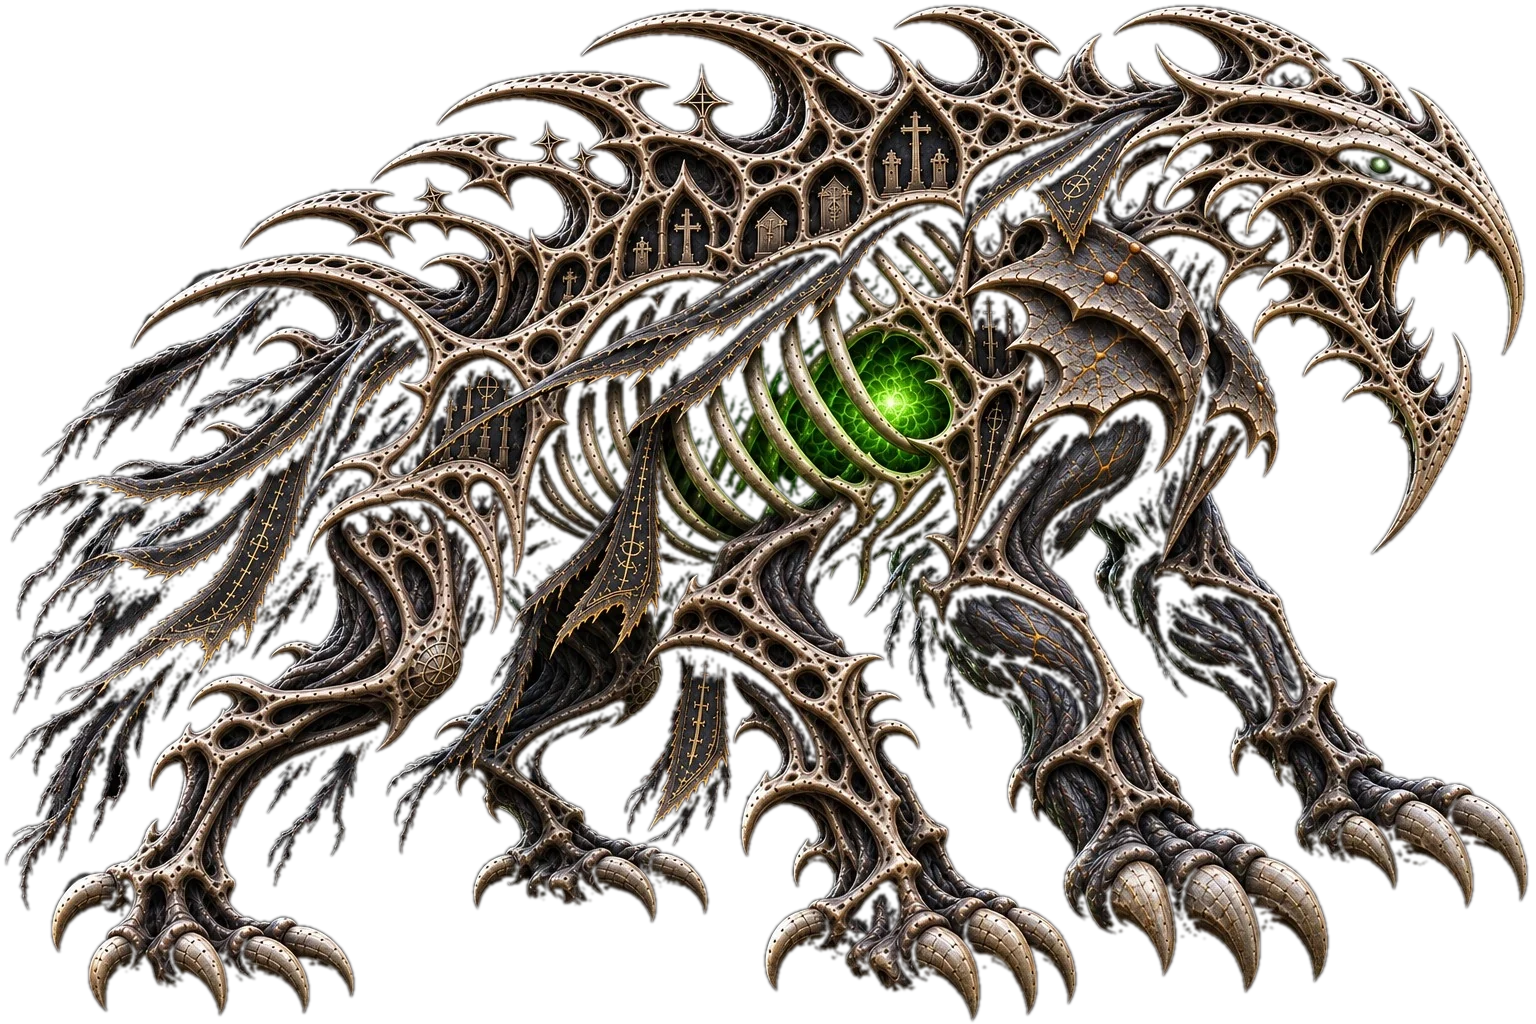
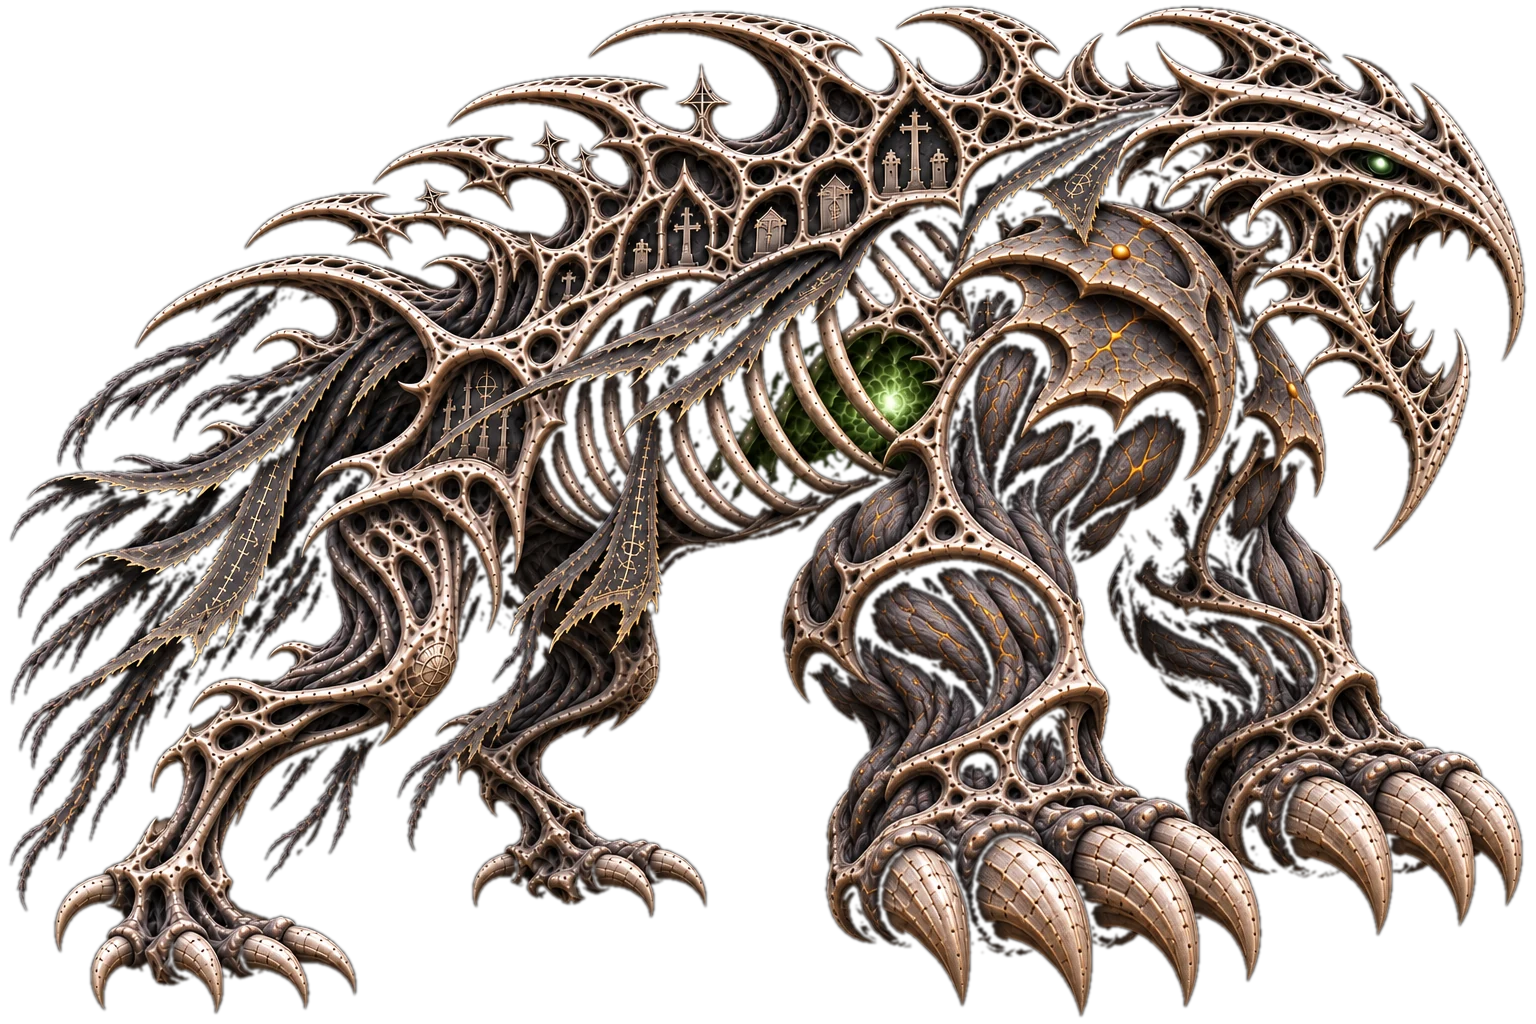
Restore the four-legged Revenant–Brute portrait and document hybrid polish

diff --git a/table/page-art.js b/table/page-art.js
@@ -133,12 +133,12 @@ export const PAGE_ART = {
     ],
   },
   'specimen-warped-revenant-brute': {
-    from: '4a65cf54854d737c', frames: 1, drawn: [315,465], pages: {"showcase/home":"lazy"},
+    from: 'd94a6b2e005a6550', frames: 1, drawn: [315,465], pages: {"showcase/home":"lazy"},
     sizes: [
-      { file: 'specimen-warped-revenant-brute-315.d30873b7.webp', width: 315, height: 210, bytes: 52912 },
-      { file: 'specimen-warped-revenant-brute-465.47d0a553.webp', width: 465, height: 310, bytes: 99294 },
-      { file: 'specimen-warped-revenant-brute-630.9a6c9c2d.webp', width: 630, height: 420, bytes: 157342 },
-      { file: 'specimen-warped-revenant-brute-930.252728d8.webp', width: 930, height: 620, bytes: 282728 },
+      { file: 'specimen-warped-revenant-brute-315.ab952dfd.webp', width: 315, height: 210, bytes: 49030 },
+      { file: 'specimen-warped-revenant-brute-465.bb8f8668.webp', width: 465, height: 310, bytes: 91558 },
+      { file: 'specimen-warped-revenant-brute-630.4bdb1ff7.webp', width: 630, height: 420, bytes: 142204 },
+      { file: 'specimen-warped-revenant-brute-930.f20f8a23.webp', width: 930, height: 620, bytes: 248450 },
     ],
   },
   'home-ground-eclipse': {

diff --git a/table/battle-warped-hybrid-art.js b/table/battle-warped-hybrid-art.js
@@ -17,7 +17,7 @@ const variants = [
   ['cataclysm', 'ultimate', 'ultimate', [1536, 1024], [22, 17, 1516, 1009]],
   ['revenant', 'sibling', { artworks: [stormborn, ethereal] }, [1536, 1024], [6, 8, 1525, 1019]],
   ['revenant', 'predator', { family: 'predator' }, [1536, 1024], [3, 9, 1529, 1017]],
-  ['revenant', 'brute', { family: 'brute' }, [1536, 1024], [6, 6, 1527, 1019]],
+  ['revenant', 'brute', { family: 'brute' }, [1536, 1024], [11, 7, 1525, 1015]],
   ['revenant', 'ultimate', 'ultimate', [1536, 1024], [7, 5, 1531, 1020]],
   ['transcendent', 'sibling', { artworks: [stormborn, necrotic] }, [1536, 1024], [7, 10, 1526, 1012]],
   ['transcendent', 'predator', { family: 'predator' }, [1536, 1024], [0, 1, 1536, 1022]],

diff --git a/docs/art/hybrid-portrait-polish.md b/docs/art/hybrid-portrait-polish.md
@@ -1,0 +1,48 @@
+# Hybrid portrait retouching and AAA polish
+
+Use the last approved portrait as the edit target. Keep the primary Stage 3 reference beside it for identity and the secondary family's reference for the specific trait it lends. The [Warped intake](warped-hybrid-aaa-intake.md) and [Predator intake](predator-hybrid-aaa-intake.md) identify the variants by what they show. [ADR 0152](../adr/0152-choose-a-stage-3-hybrid-by-influence.md) explains which portrait the game selects.
+
+## Worked example · Revenant + Brute
+
+The Revenant contributes the hooked skull, green eye and heart, open ribs, ivory grave reliefs and black funeral cloth. The Brute's 15% influence is concentrated in the two forelegs. Their muscle, shoulder plates, broad feet and claws should read even at battle size. The finished creature has two lean hind legs and two massive forelegs. Both near and far forelegs carry weight.
+
+The first edit fixed the count but kept the brown backdrop of the supplied image and made the front pair look too light. Use the approved series references when a detail in the edit target conflicts with the brief. The prompts below capture the edits in reusable form. Left and right describe this right-facing portrait.
+
+### 1. Remove an extra limb
+
+> Edit the supplied portrait in place. From left to right, keep feet one, two, four and five. Remove the third foot and trace its whole limb back to where it joins the belly just below the green heart. Reconstruct the belly contour and open the space beneath the ribs. Keep both hind legs on the left and both heavy forelegs under the head on the right. Keep the pose, proportions, hooked skull, heart, armour, cloth and framing. Show exactly four complete paws.
+
+Count the feet and trace each one to its shoulder or hip. Check the space beneath the heart at thumbnail size. A leftover claw or floating shoulder plate can still read as a fifth limb.
+
+### 2. Restore the family trait
+
+> Use the four-legged revision as the edit target. Thicken both front legs through the shoulders, elbows and wrists, roughly 1.7 times their width in this revision. Widen both front paws and give them broad ivory claws. Keep visible muscle between the heavy shoulder plates. Retain the two lean hind legs, the open space beneath the rib cage and the Revenant's silhouette. Use the series' solid black background throughout, including between the legs.
+
+The width adjustment belongs to this revision. For another hybrid, name the feature and the reference that establishes its proportions. Compare both limbs at the same display size before accepting the edit.
+
+### 3. AAA finishing prompt
+
+The approved Revenant + Brute came from the second pass. Use this finishing prompt when an otherwise approved portrait still needs a material or edge pass.
+
+> Refine the supplied portrait at its original aspect ratio and full resolution. Keep the approved outline, anatomy, pose, palette and framing. Resolve the boundaries between weathered ivory, dark muscle and torn cloth. Preserve the scaled engraving and local green light inside the ribs. Keep the claws and dorsal tips inside the frame, with enough separation to read at battle size. Put pure black (#000000) behind the figure and in the open spaces. Keep the lighting on the creature, with no floor, haze or halo.
+
+For another form, substitute its approved materials, light source and identifying features. Compare the result with the preceding pass on black at full size and at battle size. Use the preceding pass if the finish changes the anatomy or buries the secondary family's trait.
+
+## Ship the approved master
+
+The opaque black background is part of master review. The runtime sprite carries alpha so the battlefield shows through its silhouette. For this portrait, run the existing intake tools from the repository root (Python with Pillow and Node.js).
+
+```sh
+python3 scripts/matte-opaque-art.py /path/to/approved-master.png table/battle-art/evolutions/hybrids/warped-revenant-brute.webp
+```
+
+Copy the printed canvas and silhouette bounds into the matching row of `table/battle-warped-hybrid-art.js`. Keep the existing artwork ID and path when replacing a portrait. Inspect the WebP on a contrasting ground, particularly the cloth tips, rib shadows and the opening left by the removed leg. The [matte notes](warped-hybrid-aaa-intake.md#alpha-and-silhouettes) explain how dark pockets are treated.
+
+For portraits used in [page pictures](page-pictures.json), regenerate the responsive WebPs and their manifest. Commit the changed derivatives along with the battle sprite. The showcase uses these smaller pictures in its specimen gallery.
+
+```sh
+node scripts/ux/pictures.mjs
+node scripts/ux/pictures.mjs --check
+node scripts/ux/pictures.mjs --budget
+node --test table/battle-warped-hybrid-art.test.js table/battle-evolution-art.test.js table/battle-evolution.test.js showcase/showcase.test.js
+```

diff --git a/docs/README.md b/docs/README.md
@@ -12,6 +12,7 @@
 | [learning/journal.md](learning/journal.md) | One entry per change that moves a number, each a file under [learning/journal/](learning/journal/): how to write one, and the generated list. |
 | [learning/plan.md](learning/plan.md) | Plan (draft): where the learning loop is going, and what has been refuted on the way. |
 | [art/creature-art-direction.md](art/creature-art-direction.md) | Approved creature concepts, spell staging, mutation cues, and the ART-2–6 asset plan. |
+| [art/hybrid-portrait-polish.md](art/hybrid-portrait-polish.md) | Hybrid portrait retouching and AAA finishing prompts, the Revenant + Brute example, and WebP export for battle and showcase. |
 | [art/asset-intake.md](art/asset-intake.md) | ART-2 WebP references, original PNG upload paths, hashes, alpha audit and ART-3 handoff. |
 | [art/runtime-sprites.md](art/runtime-sprites.md) | ART-3 battle sprite selection, anchors, contrast and fallbacks. |
 | [art/branding.md](art/branding.md) | The official UI palette and type (with `branding.css`; regenerate with `node scripts/sync-branding.mjs`), the bone and soot of ADR 0158, and the published design system built from them (`design-system/`). |

diff --git a/docs/art/warped-hybrid-aaa-intake.md b/docs/art/warped-hybrid-aaa-intake.md
@@ -27,6 +27,9 @@ artwork, and the renaming of each file after what it shows.
 | `warped-transcendent-brute` | Transcendent | a Brute mutation | massive limbs | `warped-transcendent-05` | `1000011948.png` |
 | `warped-transcendent-ultimate` | Transcendent | Ultimate: a sibling line, a Predator and a Brute Stage 2 | tongue, red tissue, golden armoured leg, fire, ice | `warped-revenant-03` | `1000011946.png` |
 
+The current Revenant + Brute replaces the original intake portrait with the corrected four-legged version. The
+[retouching and AAA polish guide](hybrid-portrait-polish.md) records its anatomy, prompts and export steps.
+
 A sibling-line portrait lends the two other Warped lines, as Deathstalker's lends Plague Doctor or Parasite: its
 artwork shows traits of both, and either one held selects it. The Stage 2 that led to the Stage 3 never counts.
 
